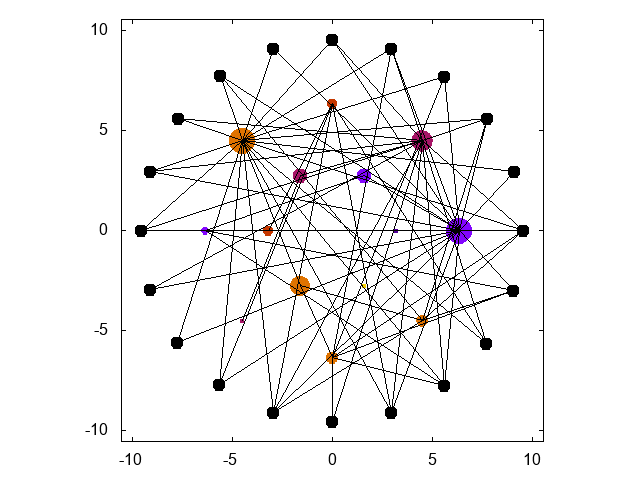
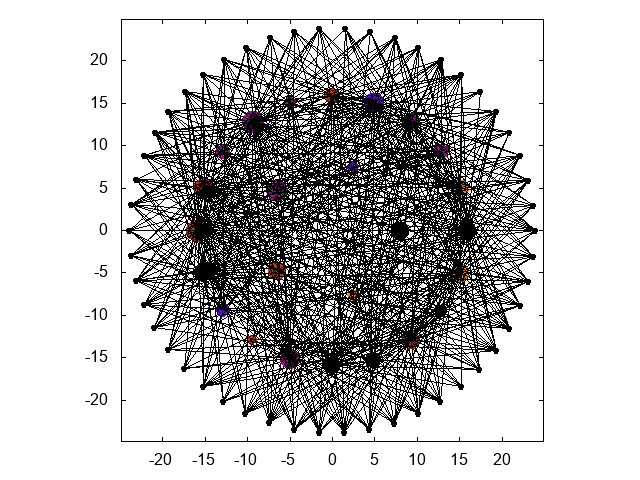
Se ajusta el tamaño de nodos al tamaño de círculos que se forman con los alumnos.

diff --git a/p1/horarios.py b/p1/horarios.py
@@ -1,9 +1,9 @@
 from random import random
 from math import sin, cos
 
-alumnosTotales = 20
-clasesTotales = 8
-horariosTotales = 6
+alumnosTotales = 50
+clasesTotales = 20
+horariosTotales = 5
 horarioProb = 0.2
 
 rAlumnos = alumnosTotales / (2 * 3.14) * 3 # Radio para alumnos
@@ -82,12 +82,13 @@ t = len(alumnosClases) + 1
 for c in range(len(clasesHorarios)):
     clase = clasesHorarios[c][0]
     horario = clasesHorarios[c][1]
-    size = [fila[1] for fila in alumnosClases].count(clase) * 2
-    size = size / len(alumnosClases) * 1.0 + 0.1
+    size = [fila[1] for fila in alumnosClases].count(clase) * 2 # por cada clase que haya sido elegida por un alumno, se tiene un tamaño de clase; mientras más alumnos, más grande
+    size = size / len(alumnosClases) + 0.1
+    size = size * rAlumnos / 5
     print("set arrow " + str(t + c) +
     " from " + str(clasesPos[clase][0]) + "," + str(clasesPos[clase][1]) +
     " to " + str(horariosPos[horario][0]) + "," + str(horariosPos[horario][1]) + " nohead")
-    print("set object circle at " + str(clasesPos[clase][0]) + "," + str(clasesPos[clase][1]) + " fillcolor palette frac " + str(0.1 + horario / horariosTotales * 1.0) + " fillstyle solid noborder size " + str(size))
+    print("set object circle at " + str(clasesPos[clase][0]) + "," + str(clasesPos[clase][1]) + " fillcolor palette frac " + str(horario / horariosTotales * 1.0) + " fillstyle solid noborder size " + str(size))
 print("show arrow")
 
 for a in range(alumnosTotales):
@@ -96,6 +97,7 @@ for a in range(alumnosTotales):
 for h in range(horariosTotales):
     size = [fila[1] for fila in clasesHorarios].count(h)# Contar elementos por columna https://stackoverflow.com/questions/903853/how-do-you-extract-a-column-from-a-multi-dimensional-array
     size = size / len(clasesHorarios) * 1.0 + 0.1
-    print("set object circle at " + str(horariosPos[h][0]) + "," + str(horariosPos[h][1]) + " fillcolor palette frac " + str(0.1 + h / horariosTotales * 1.0) + " fillstyle solid noborder size " + str(size) ) # http://gnuplot.sourceforge.net/docs_4.2/node62.html
+    size = size * rAlumnos / 8
+    print("set object circle at " + str(horariosPos[h][0]) + "," + str(horariosPos[h][1]) + " fillcolor palette frac " + str(h / horariosTotales * 1.0) + " fillstyle solid noborder size " + str(size) ) # http://gnuplot.sourceforge.net/docs_4.2/node62.html
 
 print("plot [-{}:{}][-{}:{}] NaN t''".format(rAlumnos + 1, rAlumnos + 1, rAlumnos + 1, rAlumnos + 1)) # http://gnuplot-surprising.blogspot.mx/2011/11/how-to-plot-nothing-using-gnuplot.html
